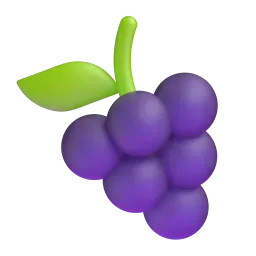
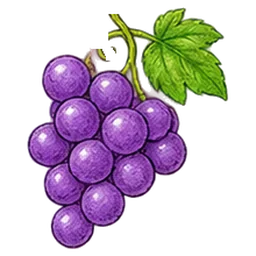
Planche 2 (126-150) : images détourées ChatGPT
Claude-Session: https://claude.ai/code/session_01UkP11uCuPaN6MyB6YyqYQX

diff --git a/sw.js b/sw.js
@@ -1,6 +1,6 @@
 // Service worker : fonctionnement hors ligne.
 // Pensez à changer VERSION à chaque mise à jour des fichiers pour que les téléphones la récupèrent.
-var VERSION = "v127";
+var VERSION = "v128";
 var CACHE = "jeux-ecole-" + VERSION;
 var FILES = [
   "./",
@@ -12,7 +12,6 @@ var FILES = [
   "jeux/francais.html",
   "jeux/clavier.js",
   "jeux/allemand-mots.js",
-  "sync.js",
   // images-de
   "jeux/img/de/Ampel.webp",
   "jeux/img/de/Anker.webp",
@@ -245,6 +244,7 @@ var FILES = [
   "jeux/img/de/oeffnen.webp",
   "jeux/img/de/ueber.webp",
   // /images-de
+  "sync.js",
   "jeux/code.html",
   "jeux/morpion.html",
   "jeux/robot.html",

diff --git a/CLAUDE.md b/CLAUDE.md
@@ -115,7 +115,7 @@ Cibles >= 56px, bordures 3px, textes secondaires >= 16px, menus centrés vertica
 - **Mots activés (remplace les leçons cochées, à la demande de l'utilisateur)** : Paramètres → 📖 Mots d'allemand → interrupteur ✅ par mot, boutons Tout/Aucun par leçon et Tout activer/désactiver, **par profil** (pastilles des profils). Clé `de_off@<profil>` = mots désactivés (`deOff`, `deOffSave`, `deOn`, `deOnSet` dans `allemand-mots.js`) ; au premier usage, désactivés = mots hors des leçons cochées pour Finde das Wort ; un mot ajouté plus tard est activé d'office. Tous les jeux (pool de `deutsch.html`, `memory.html`, `courses.html`) tirent les mots activés ; difficulté allemand ×1,25 si plus de 60 mots activés. Le menu « 🎮 Réglages des jeux » est retiré des Paramètres (doublon, à la demande de l'utilisateur) : seule l'entrée « 📖 Mots d'allemand » reste (page `jeux` conservée mais inaccessible). **Le manuel reste en mémoire** (rangement par leçon, `deSelected`/`deSave`, page `lecons` masquée mais conservée).
 - (Ancien, conservé mais plus utilisé) Paramètres → 🎮 Réglages des jeux → Der · Die · Das / Finde das Wort : leçons cochées **par jeu et par profil** (clés `de_sel_dde@<profil>`, `de_sel_fdw@<profil>`, défaut `DE_DEFAULT` = leçons 1-10). Les jeux ne tirent que les mots des leçons cochées (message s'il y en a moins de 3).
 - **Dictionnaire hors manuel** (à la demande de l'utilisateur) : mots ajoutés en dehors du manuel, en **leçon 100** (`DE_DICT`, module `dico` « 📖 Dictionnaire · Mots en plus », période 0 affichée « 📖 Hors manuel » dans les réglages des leçons). **Coché d'office** dans tous les jeux (`deSelected` l'ajoute sauf si la liste enregistrée contient `-100` = décoché volontairement ; `deSave` ajoute `-100` quand il n'est pas coché). Mots : **die Klementine** (dessin `DE_SVG` : deux clémentines ; aussi dans `DE_BUY` pour la liste des courses). Pour ajouter un mot : une ligne `"100|article|Mot|emoji"` (ou image vide + dessin dans `DE_SVG`).
-- **Images Gemini (en cours)** : l'utilisateur génère les images des mots dans l'appli Gemini de son téléphone, un peu chaque jour, avec les consignes de `outils/gemini-images.md` (produit par `outils/gen_prompts.py` : style commun + sujet par mot, 230 mots, mots sans image d'abord, 20 par jour). Il renvoie les images dans la session avec leurs numéros (conseil donné : coller d'abord un message de style unique dans une nouvelle conversation, puis un sujet par message ; Gemini peut proposer plusieurs variantes, on garde la meilleure). Intégration : `python3 outils/images.py <image> <Mot> …` rogne le blanc, met en carré, réduit à 256 px, enregistre `jeux/img/de/<slug>.webp` (ä→ae, ö→oe, ü→ue, ß→ss), met à jour `DE_IMG` dans `allemand-mots.js` (l'image est prioritaire sur l'emoji et le dessin : `deImg` = `<img class="deimg">` 1,3em, chemin relatif à l'accueil) et la liste entre `// images-de` dans `sw.js`. Puis changer `VERSION`. Faites : 1 à 125 (tous les mots ont une image). **Reste : planches 2 à 6 de `gemini-planches.md` (n° 126 à 230, mots encore en Fluent 3D).** Rappel quotidien à 11 h 53 (Paris) demandé par l'utilisateur : tâche planifiée « Rappel : images Gemini manquantes » (`trig_01YDTJjxTUJCC9bXXBs6b6VL`), à supprimer quand tout est fait, brauchen refait avec parapluie ; planches d'harmonisation : planche 1 faite (kneten, Jäger refaits, 103-125) (planches découpées ; les cases à bordure grise sont détectées par profils de pixels non blancs, puis rognées de 9 px). Gemini peut générer une planche de 20 images en une fois : découper en grille (cases de largeur/5), puis outils/images.py. Noter chaque mot Gemini fait dans `outils/gemini-faits.txt`.
+- **Images Gemini (en cours)** : l'utilisateur génère les images des mots dans l'appli Gemini de son téléphone, un peu chaque jour, avec les consignes de `outils/gemini-images.md` (produit par `outils/gen_prompts.py` : style commun + sujet par mot, 230 mots, mots sans image d'abord, 20 par jour). Il renvoie les images dans la session avec leurs numéros (conseil donné : coller d'abord un message de style unique dans une nouvelle conversation, puis un sujet par message ; Gemini peut proposer plusieurs variantes, on garde la meilleure). Intégration : `python3 outils/images.py <image> <Mot> …` rogne le blanc, met en carré, réduit à 256 px, enregistre `jeux/img/de/<slug>.webp` (ä→ae, ö→oe, ü→ue, ß→ss), met à jour `DE_IMG` dans `allemand-mots.js` (l'image est prioritaire sur l'emoji et le dessin : `deImg` = `<img class="deimg">` 1,3em, chemin relatif à l'accueil) et la liste entre `// images-de` dans `sw.js`. Puis changer `VERSION`. Faites : 1 à 125 (tous les mots ont une image). **Planche 2 (126-150) faite avec ChatGPT, images détourées sur fond transparent (`images.py` garde la transparence ; parasites de faible opacité retirés avant découpe en grille). Reste : planches 3 à 6 de `gemini-planches.md` (n° 151 à 230, mots encore en Fluent 3D), à demander à ChatGPT en fond transparent.** Rappel quotidien à 11 h 53 (Paris) demandé par l'utilisateur : tâche planifiée « Rappel : images Gemini manquantes » (`trig_01YDTJjxTUJCC9bXXBs6b6VL`), à supprimer quand tout est fait, brauchen refait avec parapluie ; planches d'harmonisation : planche 1 faite (kneten, Jäger refaits, 103-125) (planches découpées ; les cases à bordure grise sont détectées par profils de pixels non blancs, puis rognées de 9 px). Gemini peut générer une planche de 20 images en une fois : découper en grille (cases de largeur/5), puis outils/images.py. Noter chaque mot Gemini fait dans `outils/gemini-faits.txt`.
 - **Fluent Emoji 3D** (à la demande de l'utilisateur : « Fluent pour tout ce qui représente très bien les mots, Gemini pour les autres ») : `outils/fluent.py` (liste `F` mot → emoji ; plusieurs emoji = images côte à côte, ex. Vögel, Bäume, Mäuse, zwölf) télécharge `@lobehub/fluent-emoji-3d` (npm, MIT) et écrit `jeux/img/de/<slug>.webp`, sans jamais écraser un mot de `gemini-faits.txt`. 128 mots en Fluent ; retirés car pas assez clairs : Fuß, Nebel, waschen, Freund, Freundin (→ Gemini). Ensuite (demande de l'utilisateur : « passer toute émoticône en images générées », style crayon unique) : les mots Fluent sont numérotés 103-230 dans `gemini-images.md`, et `outils/gemini-planches.md` donne des planches de 25 prêtes à coller (planche 1 = refaire aussi kneten et der Jäger). Une image Gemini remplace l'image Fluent (ajouter le mot à `gemini-faits.txt`).
 - **📖 Mots d'allemand** (Paramètres, à la demande de l'utilisateur : « gérer la liste de mots allemand et leur image, rajouter des mots ; tu me demanderas les images ») : pages `dewords` (liste par leçon avec image, recherche, « + Ajouter un mot », carte « 🖼 Mots sans image » avec consigne Gemini à copier, `dwPrompt`) et `deword` (fiche : 📷 choisir une image sur le téléphone → éditeur `phOpen(f, cb)` en carré, fond blanc, 256 px WebP ; image d'origine ; pour un mot ajouté : article, mot (majuscule auto pour un nom), leçon (défaut 100 = Dictionnaire), « image à dessiner » en français, liste des courses ; masquer un mot du manuel ; supprimer un mot ajouté). Données sur le téléphone : `localStorage.de_words = {add:[{id,n,a,w,fr,buy}], img:{Mot:dataURL}, hide:[Mot]}` ; `deBuild()` (fin de `allemand-mots.js`) calcule `DE_ALL` (tout), `DE_WORDS` (sans les masqués), `DE_BUY` (= `DE_BUY0` + mots ajoutés « courses ») ; image du téléphone > image du dépôt > emoji > dessin. Quand l'utilisateur envoie les images de ses mots ajoutés, les intégrer au dépôt (ligne `DE_RAW` + `outils/images.py`) : un mot du dépôt l'emporte sur le même mot ajouté.
 - Pas de doublon d'emoji entre mots (sinon deux réponses auraient la même image).
